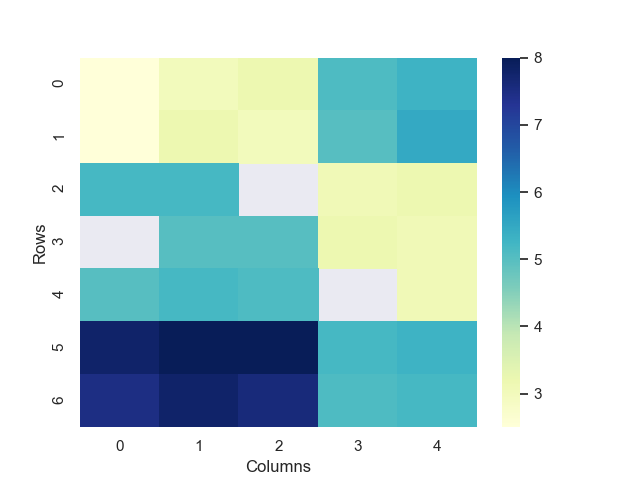
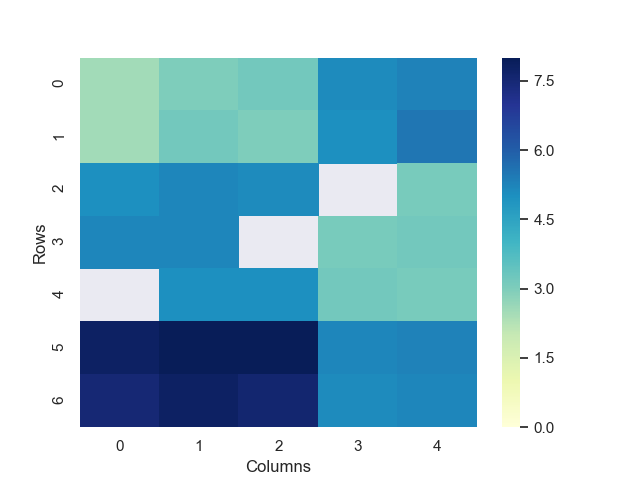
Updated images

diff --git a/BBAC_classes.py b/BBAC_classes.py
@@ -21,13 +21,14 @@ class BBAC():
     :param: source(str):   Path to the original bbac.R file, available at https://github.com/fnyanez/bbac .
         '''
 
-    def __init__(self, Z, n_cltr_r, n_cltr_c, distance='d'):
+    def __init__(self, Z, n_cltr_r, n_cltr_c, scheme=2, distance='d'):
         # initial variables
         self.Z = Z
         self.n_cltr_r = n_cltr_r
         self.n_cltr_c = n_cltr_c
         self.distance = distance
         self.n_row, self.n_col = np.shape(self.Z)[0], np.shape(self.Z)[1]
+        self.scheme = scheme
 
     def get_missing(self, missing_value=0):
         '''Returns the indices of  missing values in matrix Z
@@ -61,7 +62,7 @@ class BBAC():
         self.W = numpy_to_r(W)
 
         # Create co-clustering
-        co_clustering = bbac(self.Z, W = self.W,  k=self.n_cltr_r, l=self.n_cltr_c, nruns=10, distance=self.distance, scheme=2)
+        co_clustering = bbac(self.Z, W = self.W,  k=self.n_cltr_r, l=self.n_cltr_c, nruns=10, distance=self.distance, scheme=self.scheme)
 
         # Set row and column clusters
         self.row_cltr = np.array(co_clustering[0])
@@ -200,7 +201,7 @@ class BBAC():
         # Function to plot heatmaps
         def plot_heatmap(array, mask, Z='_Z'):
             # Create and store heatmap of the array with an mask
-            ax = sns.heatmap(self.Z, cmap="YlGnBu", mask=mask)
+            ax = sns.heatmap(array, cmap="YlGnBu", mask=mask)
             ax.set(xlabel=xlabel, ylabel=ylabel)
             fig = ax.get_figure()
             fig.savefig('{}/{}{}.png'.format(path, outname,Z))
@@ -211,16 +212,16 @@ class BBAC():
         mask = 1 - self.W
 
         # Plot orignal matrix with missing values
-        plot_heatmap(self.Z, mask=mask, Z='_Z')
+        plot_heatmap(array=self.Z, mask=mask, Z='_Z')
 
         # Plot imputed matrix
-        plot_heatmap(self.Z_imputed, mask=None, Z='_Z_imputed')
+        plot_heatmap(array=self.Z_imputed, mask=None, Z='_Z_imputed')
 
         # Retrieve re-ordered W and Z arrays
-        self.Z_rd, self.W_rd = self.re_order_matrix()
+        Z_rd, W_rd = self.re_order_matrix()
 
         # Create mask for re-orederd array
-        r_mask = 1 - self.W_rd
+        r_mask = 1 - W_rd
 
         # Plot re-ordered matrix with missing values
-        plot_heatmap(self.Z_rd, mask=r_mask, Z='_Z_re_ordered.png')
+        plot_heatmap(Z_rd, mask=r_mask, Z='_Z_re_ordered.png')

diff --git a/test.py b/test.py
@@ -14,20 +14,16 @@ def basic_test():
 
     # Create array from lists and convert to rpy2-array
     array = np.array(list_of_list)
-    array[array == 0] = 0
     Z = numpy_to_r(array)
 
     # Use the prediction algorithm
-    test = BBAC(Z, n_cltr_r=3, n_cltr_c=2, distance='d')
+    test = BBAC(Z, n_cltr_r=3, n_cltr_c=2, distance='d', scheme=2)
     test.coclustering()
-    test.re_order_matrix()
     test.predict()
+
+    # Visualize arrays and print imputed array
     test.visualize(path=r'D:\g_drive\Gima\Thesis\Media', outname='test', xlabel='Columns', ylabel='Rows')
-    # print(test.col_cltr, '\n\n', test.row_cltr)
-    print(test.Z)
     print(test.Z_imputed)
-    print(test.W)
-    print(test.co_cltr_avg)
 
 
 def larger_array_test():

diff --git a/rpy2_setup.py b/rpy2_setup.py
@@ -13,7 +13,7 @@ rpy2.robjects.numpy2ri.activate()
 
 # Import BBAC functionality
 r_source = robjects.r['source']
-r_source(r"D:\g_drive\Gima\Thesis\Github\R_bbac\bbac.R")
+r_source(r"R_bbac\bbac.R")
 bbac = robjects.r['bbac']
 
 # Other R functionality
